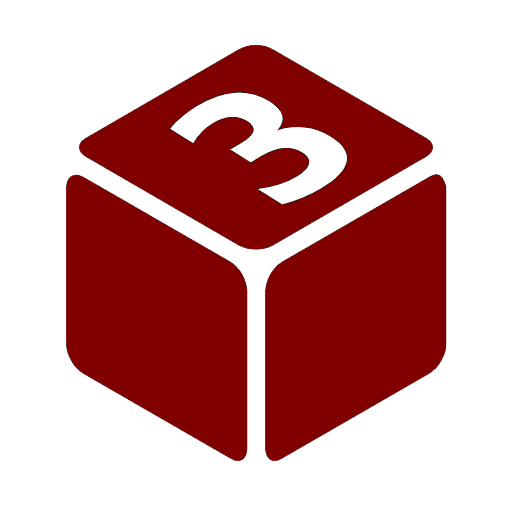
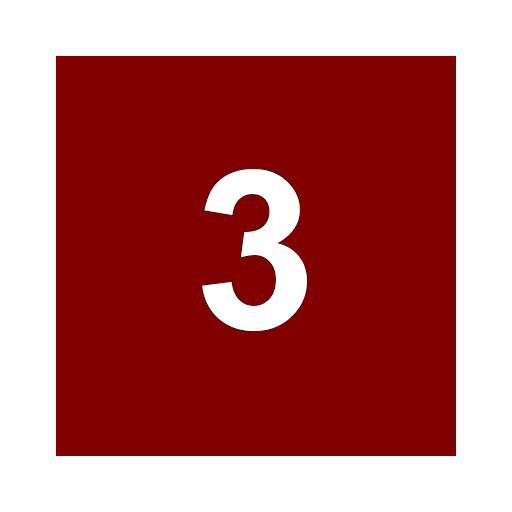
dice visuals, tweaks, message updates, new d6 imgs

Changed region(s): [[0.0938, 0.0625, 0.9062, 0.9062]]

diff --git a/module/yzroll.js b/module/yzroll.js
@@ -73,29 +73,67 @@ export class YZRoll {
         let keyArray = ["base", "skill", "gear", "artifact"];
         let res = this.rollResults;
 
+        let thrownDie = {};
+        let diceArray = [];
+        let diceData = {};
+        let color = "";
+
         if(this.stepDice) {
             keyArray.forEach(k => {
-
+                    switch(k) {
+                        case "base": color = "black"; break;
+                        case "skill": color = "blue"; break;
+                        case "gear": color = "green"; break;
+                        case "artifact": color = "red"; break;
+                    }
                     let rerollExpr = res[k][0];
                     if(res[k][1] == 1 || res[k][1] == "-") {
                         //do nothing
                     } else {
                         let reroll = new Roll(rerollExpr).evaluate({async:false});
                         res[k][1] = reroll.total;
+
+                        thrownDie = {
+                            result: reroll.total,
+                            resultLabel:reroll.total,
+                            type: rerollExpr.substring(1),
+                            vectors:[],
+                            options:{colorset:color}
+                        }
+        
+                        diceArray.push(thrownDie);
                     }
                 
 
             });
 
+            diceData = {
+                throws:[
+                    {
+                        dice:diceArray
+                    }
+                ]
+           }
+
             console.log("REsults after push: ", res);
             this.rollResults = res;
             this.isPush = true;
+            if(game.settings.get('yzsrd-roller', 'dsn') && game.modules.get('dice-so-nice')?.active) {
+                game.dice3d.show(diceData, game.user, true);
+            }
+            
 
         } else {
 
             keyArray.forEach(k => {
 
                 // let rerollExpr = res[k][0];
+                switch(k) {
+                    case "base": color = "black"; break;
+                    case "skill": color = "blue"; break;
+                    case "gear": color = "green"; break;
+                    case "artifact": color = "red"; break;
+                }
                 
                 res[k].forEach(v => {
                     if(res[k].indexOf(v) == 0) {
@@ -107,18 +145,41 @@ export class YZRoll {
                         let loc = res[k].indexOf(v);
                         res[k][loc] = reroll.result;
                         
+                        let thrownDie = {
+                                result:reroll.result,
+                                resultLabel:reroll.result,
+                                type: "d6",
+                                vectors:[],
+                                options:{colorset:color}
+                        }
+            
+                        diceArray.push(thrownDie);
                     }
 
 
                 });
                
             });    
-            
 
+            diceData = {
+                throws:[
+                    {
+                        dice:diceArray
+                    }
+                ]
+           }
+            
+            this.rollResults = res;
+            if(game.settings.get('yzsrd-roller', 'dsn') && game.modules.get('dice-so-nice')?.active) {
+                game.dice3d.show(diceData, game.user, true);
+            }
         }
 
+
+
         console.log("REsults after push: ", res);
-        this.rollResults = res;
+       
+        this.diceDisplay = this.createDiceImgs();
         this.isPush = true;
 
         this._parseSuccess(res);
@@ -186,14 +247,20 @@ export class YZRoll {
         let skillRoll = 0;
         let gearRoll = 0;
         let artifactRoll = 0;
+        let statImg = "modules/yzsrd-roller/assets/dice_black";
+        let skillImg = "modules/yzsrd-roller/assets/dice_blue";
+        let gearImg = "modules/yzsrd-roller/assets/dice_green";
+        let artImg = "modules/yzsrd-roller/assets/dice_red";
 
-        
 
 
         if (statExpr != "None") {
             statRoll = [new Roll(statExpr).evaluate({async:false}).total];
+           /* statImg += `/${statExpr.substring(1)}-${statRoll}.png`;
+            statImg = `<img src="${statImg}" height="36" width="36" style="border:0px !important;">`;*/
         } else {
             statRoll = "-"
+            statImg = ""
         }
 
         if (skillExpr != "None") {
@@ -223,7 +290,7 @@ export class YZRoll {
         };
 
         // Construct DSN throw data
-        if(game.settings.get("yzsrd-roller", "dsn")) {
+        if(game.settings.get("yzsrd-roller", "dsn") && game.modules.get('dice-so-nice')?.active) {
             let thrownDie = {};
             let diceArray = [];
 
@@ -257,7 +324,7 @@ export class YZRoll {
                     resultLabel: gearRoll,
                     type:gearExpr.substring(1),
                     vectors:[],
-                    options:{colorset:'red'}
+                    options:{colorset:'green'}
                 }
 
                 diceArray.push(thrownDie);
@@ -269,7 +336,7 @@ export class YZRoll {
                     resultLabel:artifactRoll,
                     type:artExpr.substring(1),
                     vectors:[],
-                    options:{colorset:'yellow'}
+                    options:{colorset:'red'}
                 }
 
                 diceArray.push(thrownDie)
@@ -297,9 +364,12 @@ export class YZRoll {
         res.gear[1] = gearRoll;
         res.artifact[0] = artExpr;
         res.artifact[1] = artifactRoll
+        res.statImg = statImg;
+
+       
         
         this.rollResults = res;
-
+        this.diceDisplay = this.createDiceImgs();
         this._parseSuccess(res);
      }
 
@@ -330,7 +400,7 @@ export class YZRoll {
 
         // Testing Dice So Nice! integration
 
-        if(game.settings.get("yzsrd-roller", "dsn")) {
+        if(game.settings.get("yzsrd-roller", "dsn") && game.modules.get('dice-so-nice')?.active) {
 
             let statThrowArray = [];
             let skillThrowArray = [];
@@ -403,7 +473,7 @@ export class YZRoll {
                      resultLabel:d,
                      type: "d6",
                      vectors:[],
-                     options:{colorset:"red"}
+                     options:{colorset:"green"}
                  }
  
                  gearThrowArray.push(thrownDie);
@@ -432,7 +502,7 @@ export class YZRoll {
                     resultLabel:d,
                     type: "d6",
                     vectors:[],
-                    options:{colorset:"yellow"}
+                    options:{colorset:"red"}
                 }
 
                 artThrowArray.push(thrownDie);
@@ -476,7 +546,7 @@ export class YZRoll {
         }
 
         this.rollResults = res;
-
+        this.diceDisplay = this.createDiceImgs();
         this._parseSuccess(res);
 
      }
@@ -492,5 +562,49 @@ export class YZRoll {
             }
 
             return expr;
+    }
+
+    createDiceImgs() {
+        let statImg = "modules/yzsrd-roller/assets/dice_black";
+        let skillImg = "modules/yzsrd-roller/assets/dice_blue";
+        let gearImg = "modules/yzsrd-roller/assets/dice_green";
+        let artImg = "modules/yzsrd-roller/assets/dice_red";
+        let keyArray = ["base", "skill", "gear", "artifact"];
+        let imgString = "";
+        let imgBase = "";
+
+        let r = this.rollResults;
+
+        console.log("Roll results for createDiceImgs: ", r);
+
+        keyArray.forEach(key => {
+            switch(key) {
+                case "base": imgBase = statImg; break;
+                case "skill": imgBase = skillImg; break;
+                case "gear": imgBase= gearImg; break;
+                case "artifact": imgBase = artImg; break;
+                default: imgBase = skillImg;
+            }
+
+            console.log("Key in roll results: ", r[key]);
+
+            if (Array.isArray(r[key]) && r[key].length != 0) {
+                let dieCode = r[key][0].substring(1);
+                let justResults = r[key].slice(1);
+                console.log("Just results shifted array: ", justResults);
+                justResults.forEach(result => {
+                    if(dieCode === "one" || result === "-") {
+                        // do nothing, no code
+                    } else {
+                        imgString = imgString + `<img class="yzsrd-img" src="${imgBase}/${dieCode}-${result}.png" height="36" border="0" width="36" style="border:0px;">`;
+                    }
+                })
+            }
+
+        })
+        
+        return imgString;
+
+
     }
 }

diff --git a/module/yzhandler.js b/module/yzhandler.js
@@ -49,6 +49,7 @@ export class YZHandler {
             sux = pushedRoll.successes;
             banes = pushedRoll.banes;
             push = pushedRoll.isPush;
+            let diceImgs = new Handlebars.SafeString(pushedRoll.diceDisplay);
 
             msgData = {
                 roll: JSON.stringify(pushedRoll),
@@ -63,7 +64,8 @@ export class YZHandler {
                 sb: sb,
                 successes: sux,
                 banes: banes,
-                isPush: push
+                isPush: push,
+                imgs:diceImgs
             }
 
         } else {
@@ -71,6 +73,7 @@ export class YZHandler {
             sux = pushedRoll.successes;
             banes = pushedRoll.banes;
             push = pushedRoll.isPush;
+            let diceImgs = new Handlebars.SafeString(pushedRoll.diceDisplay);
 
             msgData = {
                 roll: JSON.stringify(pushedRoll),
@@ -85,7 +88,8 @@ export class YZHandler {
                 sb: sb,
                 successes: sux,
                 banes: banes,
-                isPush: push
+                isPush: push,
+                imgs:diceImgs
             }
         }
                             
@@ -134,6 +138,7 @@ export class YZHandler {
                                 let sux = thisRoll.successes;
                                 let banes = thisRoll.banes;
                                 let push = thisRoll.isPush;
+                                let diceImgs = new Handlebars.SafeString(thisRoll.diceDisplay);
     
                                 msgData = {
                                     roll: JSON.stringify(thisRoll),
@@ -148,7 +153,8 @@ export class YZHandler {
                                     sb: sb,
                                     successes: sux,
                                     banes: banes,
-                                    isPush: push
+                                    isPush: push,
+                                    imgs: diceImgs
                                 }
                             } else {
                                 thisRoll.doPoolRoll();
@@ -160,6 +166,7 @@ export class YZHandler {
                                 let sux = thisRoll.successes;
                                 let banes = thisRoll.banes;
                                 let push = thisRoll.isPush;
+                                let diceImgs = new Handlebars.SafeString(thisRoll.diceDisplay);
     
                                 msgData = {
                                     roll: JSON.stringify(thisRoll),
@@ -174,7 +181,8 @@ export class YZHandler {
                                     sb: sb,
                                     successes: sux,
                                     banes: banes,
-                                    isPush: push
+                                    isPush: push,
+                                    imgs: diceImgs
                                 }
                             }
 

diff --git a/styles/style.css b/styles/style.css
@@ -1,1 +1,5 @@
 /* Nothing here yet */
+
+.yzsrd-img {
+    border:0px !important;
+}
